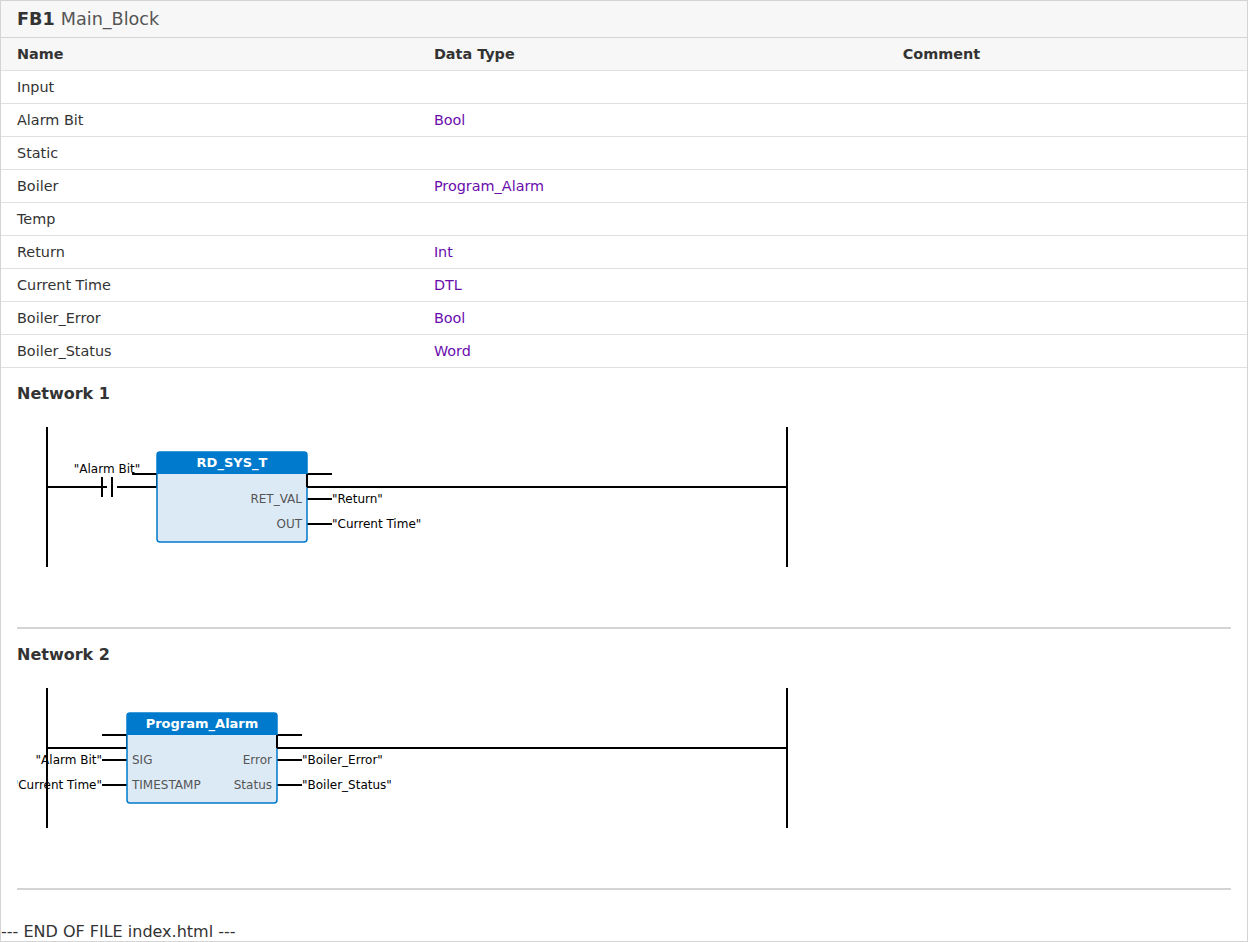
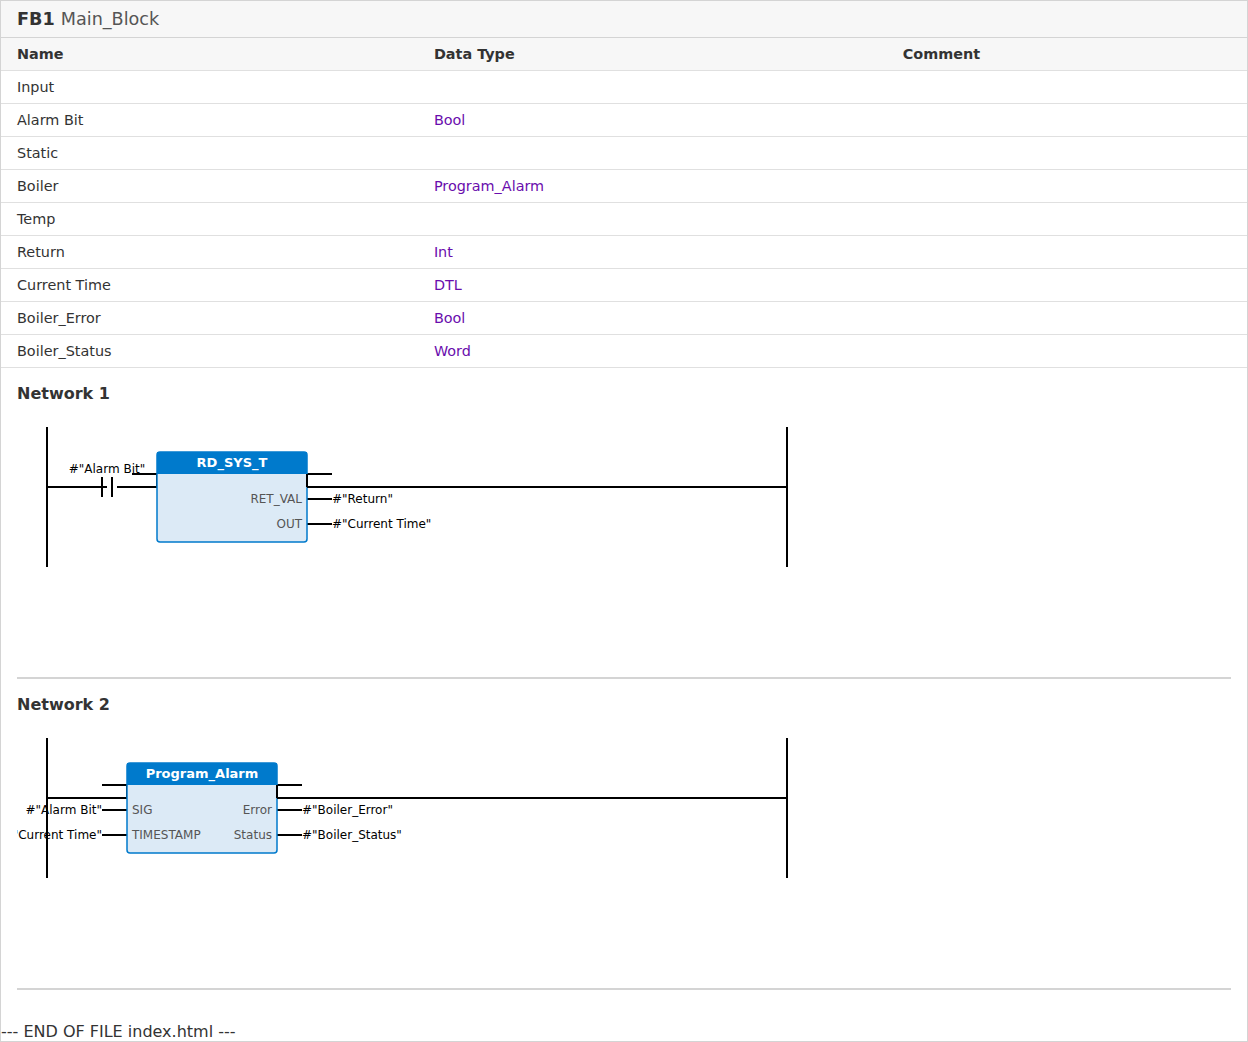
Feat: Add '#' prefix for interface tags
This commit adds the logic to prefix any tag that is part of the block's interface with a '#' symbol in the rendered output.

The `processAndRender` function is updated to first collect all interface member names into a `Set`. This set is then passed to the `renderNetwork` function.

The `renderNetwork` function, when resolving the name for an operand, now checks if the tag exists in the interface set. If it does, a '#' is prepended to the name before it is passed to the drawing functions.

This completes the final functional requirement for the PLC viewer proof-of-concept.

diff --git a/data/PLC_1/Program_blocks/index.html b/data/PLC_1/Program_blocks/index.html
@@ -306,8 +306,9 @@ function createBlock(svg, x, y, width, height, title, pins) {
 function processAndRender(xmlString) {
     const parser = new DOMParser();
     const xmlDoc = parser.parseFromString(xmlString, "application/xml");
+    const interfaceTags = new Set();
 
-    // Render Interface
+    // Render Interface and collect tags
     const interfaceRoot = xmlDoc.querySelector("Interface");
     const tbody = document.querySelector("#interface-table tbody");
     tbody.innerHTML = '';
@@ -321,8 +322,10 @@ function processAndRender(xmlString) {
             headerCell.className = 'section-header';
             headerCell.textContent = sectionName;
             members.forEach(member => {
+                const memberName = member.getAttribute("Name");
+                interfaceTags.add(memberName);
                 const row = tbody.insertRow();
-                row.insertCell().textContent = member.getAttribute("Name");
+                row.insertCell().textContent = memberName;
                 row.insertCell().innerHTML = `<span class="datatype">${member.getAttribute("Datatype")}</span>`;
                 const commentEl = member.querySelector("Comment MultiLanguageText");
                 row.insertCell().innerHTML = `<span class="comment">${commentEl ? '// ' + commentEl.textContent : ''}</span>`;
@@ -345,16 +348,16 @@ function processAndRender(xmlString) {
 
         const svg = document.createElementNS(SVG_NS, "svg");
         svg.setAttribute('width', '800');
-        svg.setAttribute('height', '200'); // Adjust height dynamically later if needed
+        svg.setAttribute('height', '250'); // Adjust height dynamically later if needed
         svg.classList.add('svg-canvas');
         networkDiv.appendChild(svg);
         networksContainer.appendChild(networkDiv);
 
-        renderNetwork(svg, networkXml);
+        renderNetwork(svg, networkXml, interfaceTags);
     });
 }
 
-function renderNetwork(svg, networkXml) {
+function renderNetwork(svg, networkXml, interfaceTags) {
     const RUNG_Y = 80;
     const LEFT_RAIL_X = 30;
     const RIGHT_RAIL_X = 770;
@@ -384,7 +387,11 @@ function renderNetwork(svg, networkXml) {
             const operandWire = wires.find(w => w.querySelector(`NameCon[UId="${partUid}"][Name="operand"]`));
             const operandAccessUId = operandWire ? operandWire.querySelector('IdentCon').getAttribute('UId') : '';
             const operandAccess = accesses.find(a => a.getAttribute('UId') === operandAccessUId);
-            const operand = operandAccess ? `"${operandAccess.querySelector('Component').getAttribute('Name')}"` : '???';
+            let operand = '???';
+            if (operandAccess) {
+                const tagName = operandAccess.querySelector('Component').getAttribute('Name');
+                operand = interfaceTags.has(tagName) ? `#"${tagName}"` : `"${tagName}"`;
+            }
 
             createContact(svg, currentX, RUNG_Y, operand);
             createWire(svg, currentX - 10, RUNG_Y, currentX - 5, RUNG_Y);
@@ -403,7 +410,8 @@ function renderNetwork(svg, networkXml) {
                 if (identCon) {
                     const access = accesses.find(a => a.getAttribute('UId') === identCon.getAttribute('UId'));
                     if (access) {
-                        const operand = `"${access.querySelector('Component').getAttribute('Name')}"`;
+                        const tagName = access.querySelector('Component').getAttribute('Name');
+                        const operand = interfaceTags.has(tagName) ? `#"${tagName}"` : `"${tagName}"`;
                         const side = ['en', 'SIG', 'TIMESTAMP'].includes(pinName) ? 'left' : 'right';
                         blockPins.push({ name: pinName, operand: operand, side: side });
                     }
